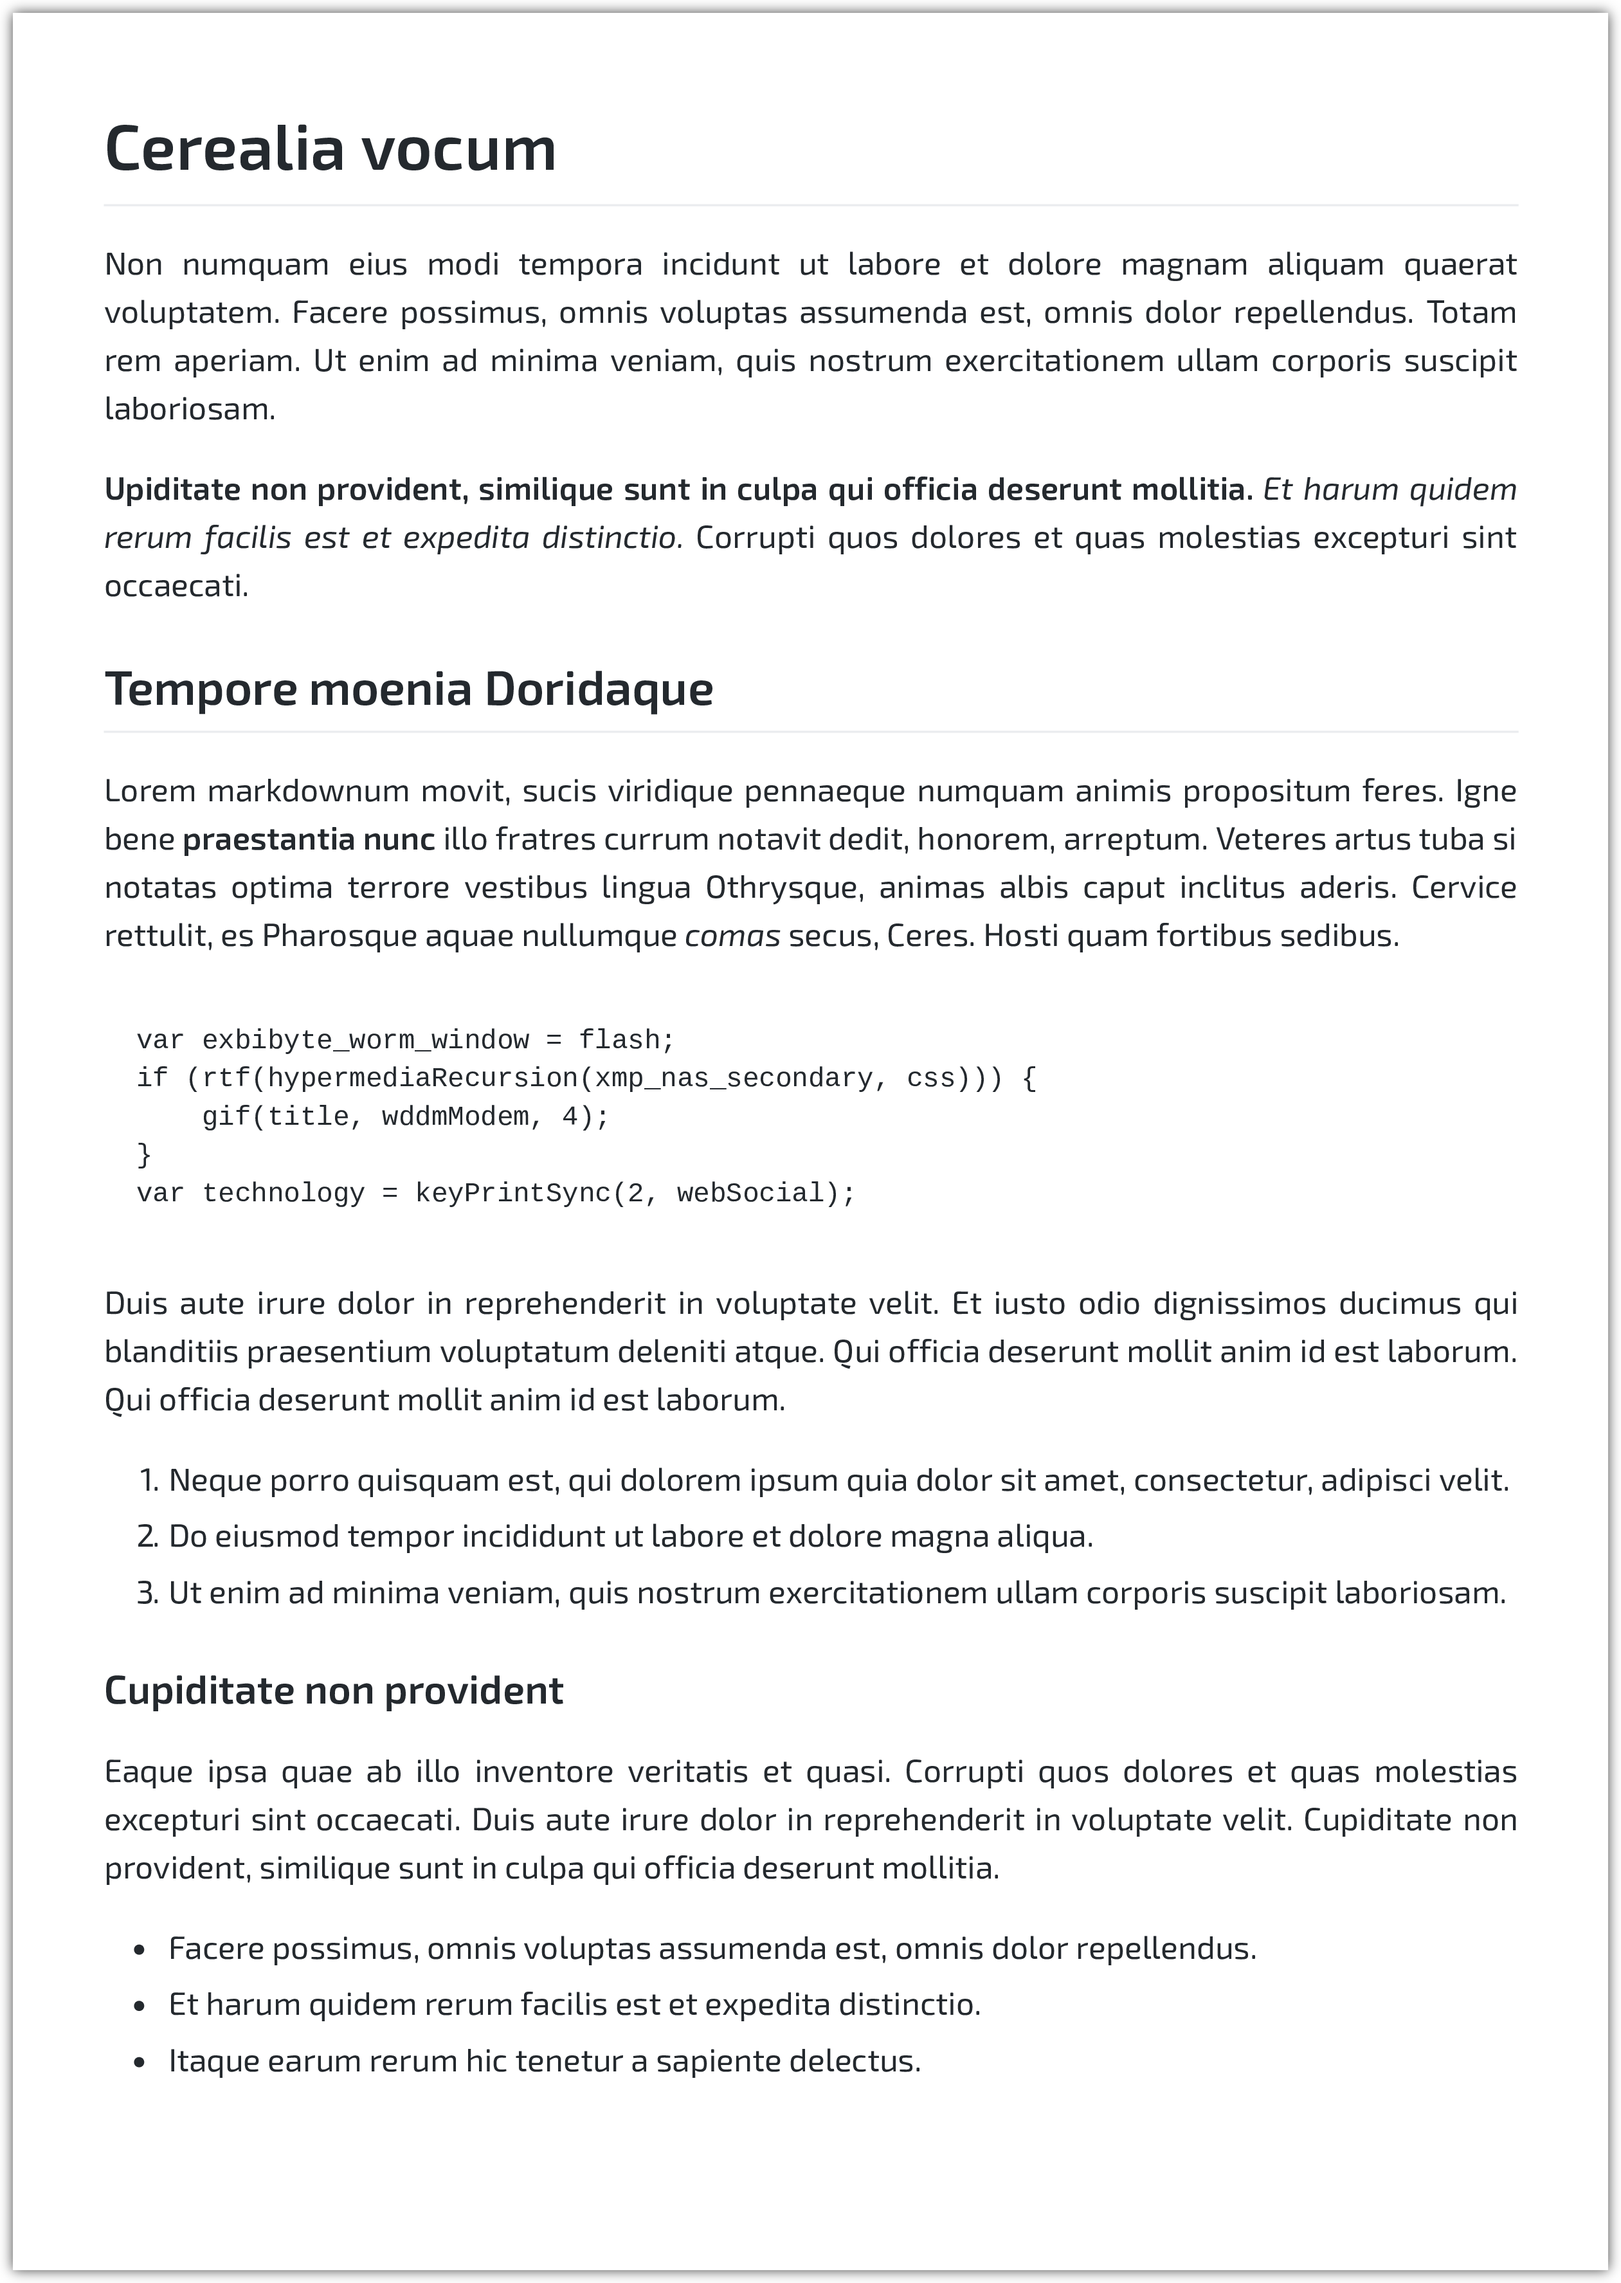
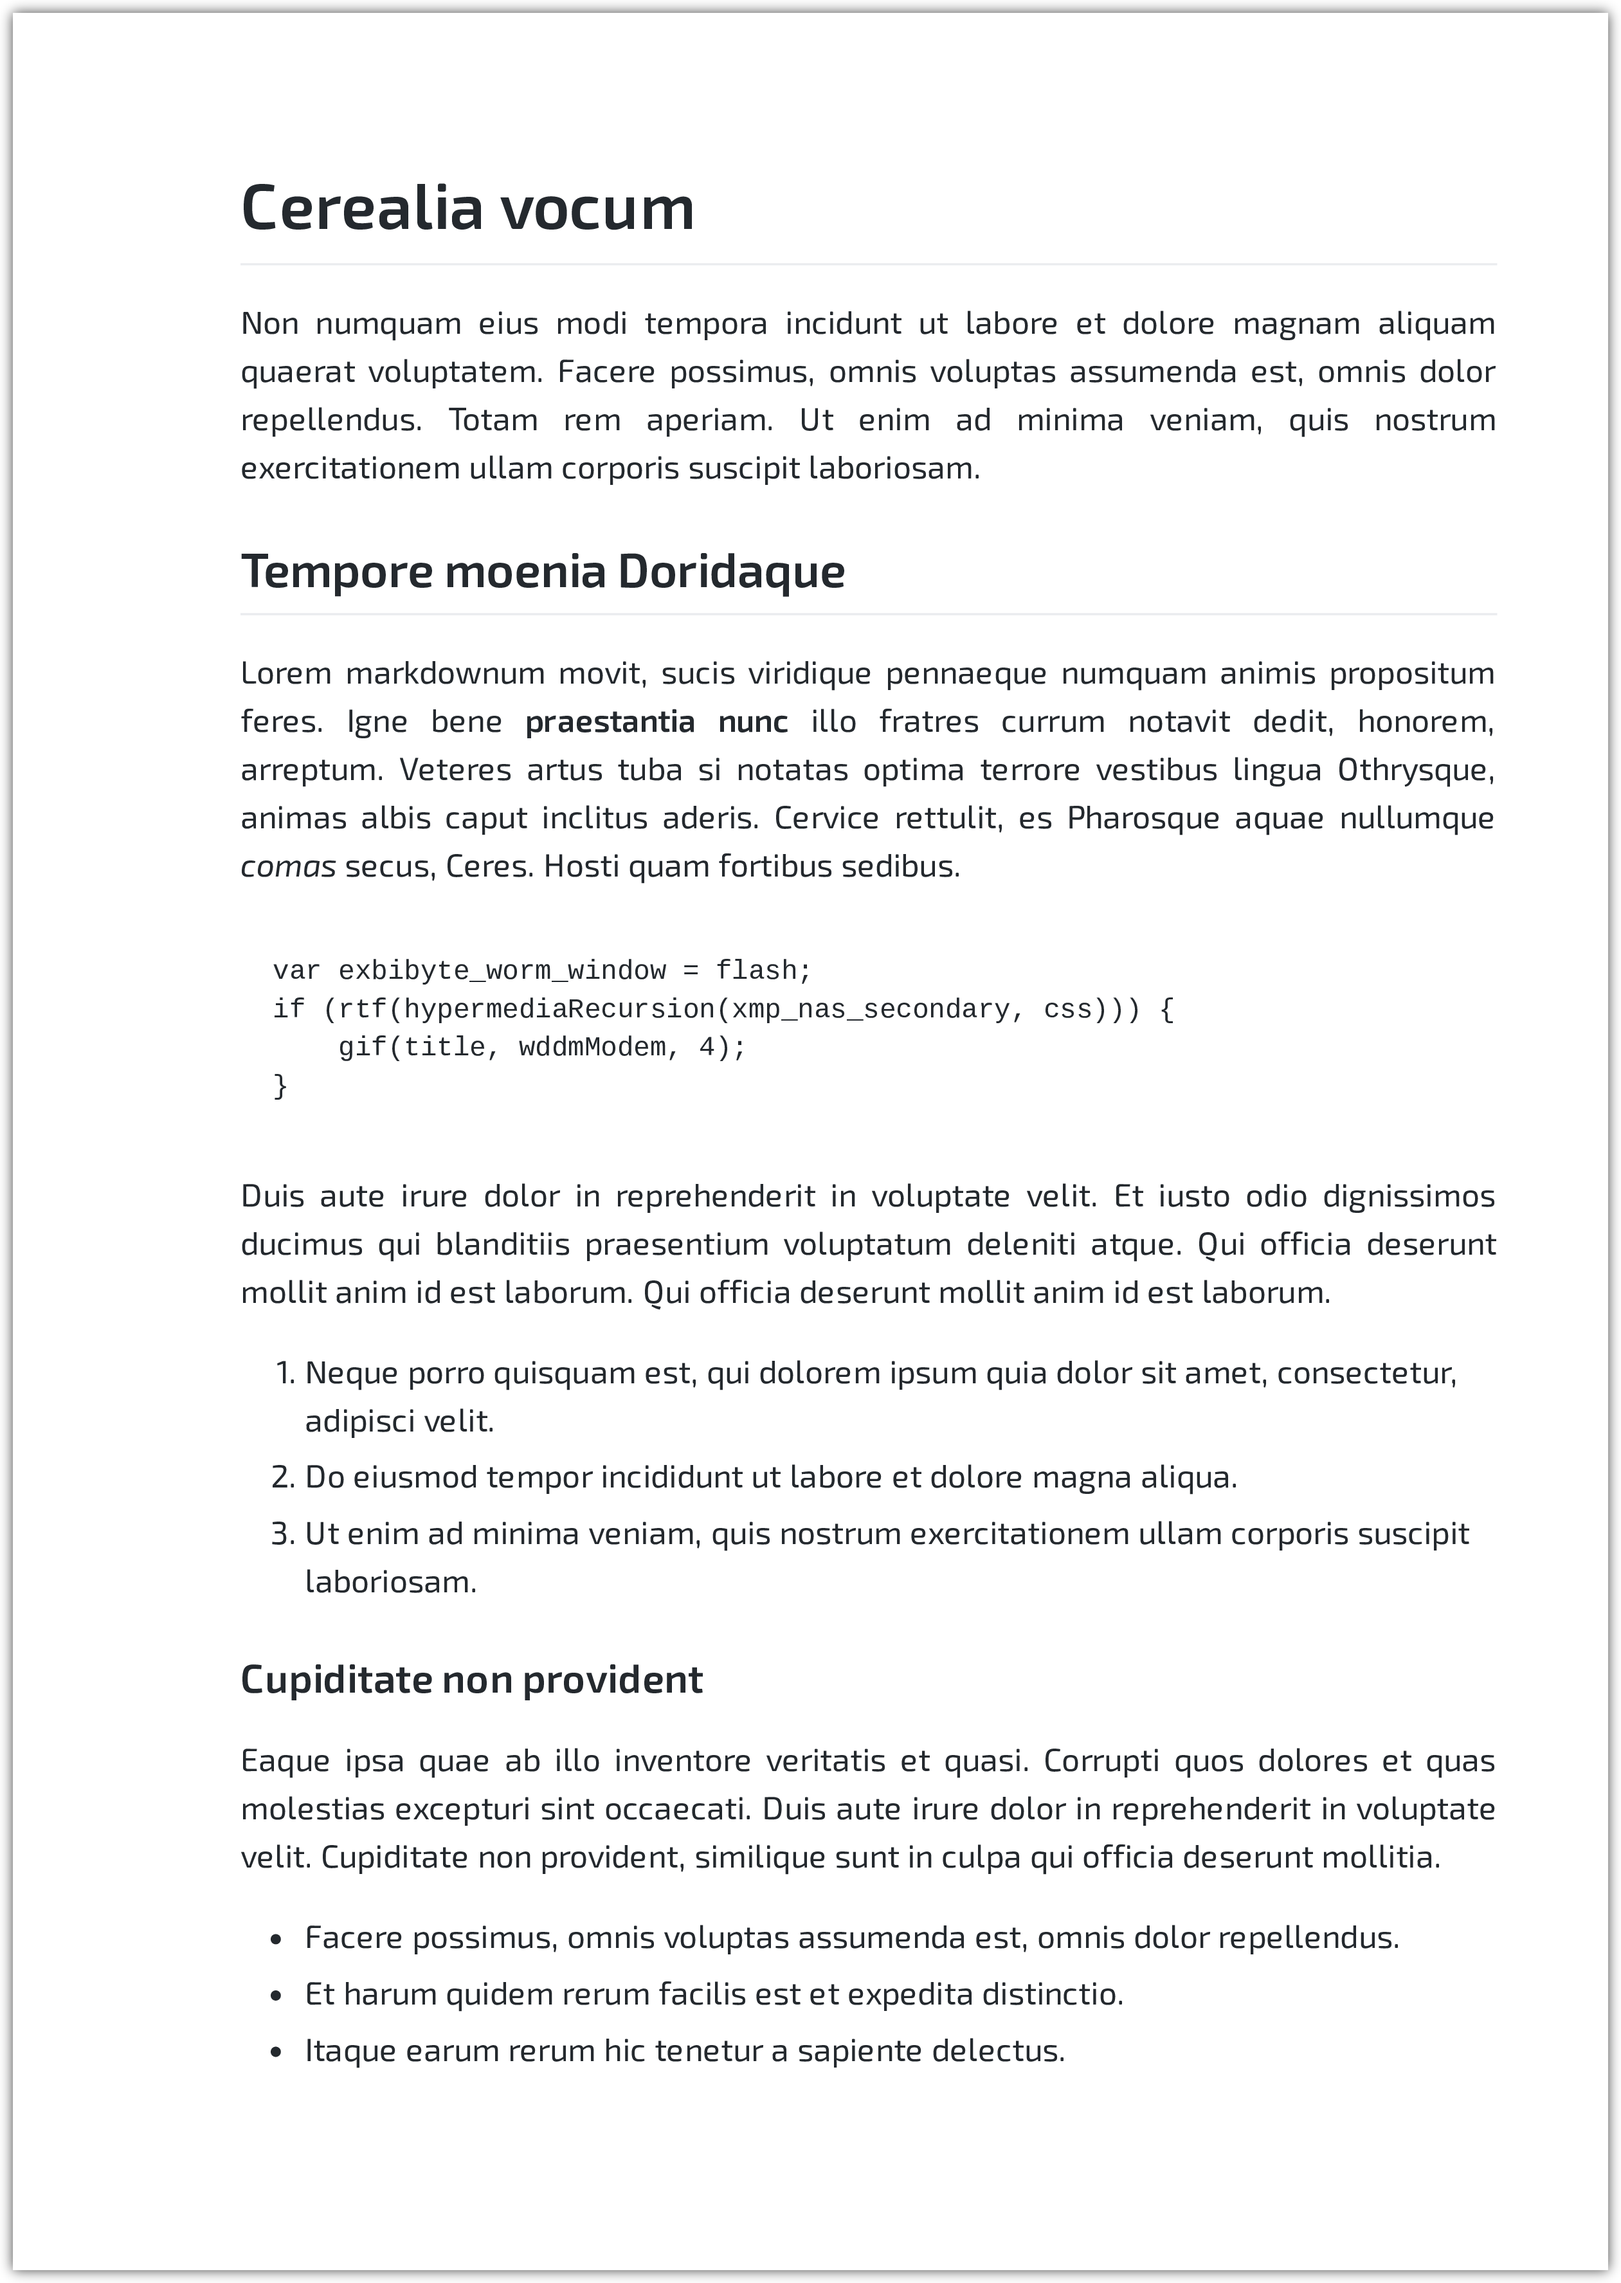
Updated example

Changed region(s): [[0.0619, 0.062, 0.9282, 0.9296]]

diff --git a/example/example.md b/example/example.md
@@ -2,22 +2,15 @@
 
 Non numquam eius modi tempora incidunt ut labore et dolore magnam aliquam quaerat voluptatem. Facere possimus, omnis voluptas assumenda est, omnis dolor repellendus. Totam rem aperiam. Ut enim ad minima veniam, quis nostrum exercitationem ullam corporis suscipit laboriosam.
 
-__Upiditate non provident, similique sunt in culpa qui officia deserunt mollitia.__ *Et harum quidem rerum facilis est et expedita distinctio.* Corrupti quos dolores et quas molestias excepturi sint occaecati.
-
 ## Tempore moenia Doridaque
 
-Lorem markdownum movit, sucis viridique pennaeque numquam animis propositum
-feres. Igne bene **praestantia nunc** illo fratres currum notavit dedit,
-honorem, arreptum. Veteres artus tuba si notatas optima terrore vestibus lingua
-Othrysque, animas albis caput inclitus aderis. Cervice rettulit, es Pharosque
-aquae nullumque *comas* secus, Ceres. Hosti quam fortibus sedibus.
+Lorem markdownum movit, sucis viridique pennaeque numquam animis propositum feres. Igne bene **praestantia nunc** illo fratres currum notavit dedit, honorem, arreptum. Veteres artus tuba si notatas optima terrore vestibus lingua Othrysque, animas albis caput inclitus aderis. Cervice rettulit, es Pharosque aquae nullumque *comas* secus, Ceres. Hosti quam fortibus sedibus.
 
 ```js
 var exbibyte_worm_window = flash;
 if (rtf(hypermediaRecursion(xmp_nas_secondary, css))) {
     gif(title, wddmModem, 4);
 }
-var technology = keyPrintSync(2, webSocial);
 ```
 
 Duis aute irure dolor in reprehenderit in voluptate velit. Et iusto odio dignissimos ducimus qui blanditiis praesentium voluptatum deleniti atque. Qui officia deserunt mollit anim id est laborum. Qui officia deserunt mollit anim id est laborum.
